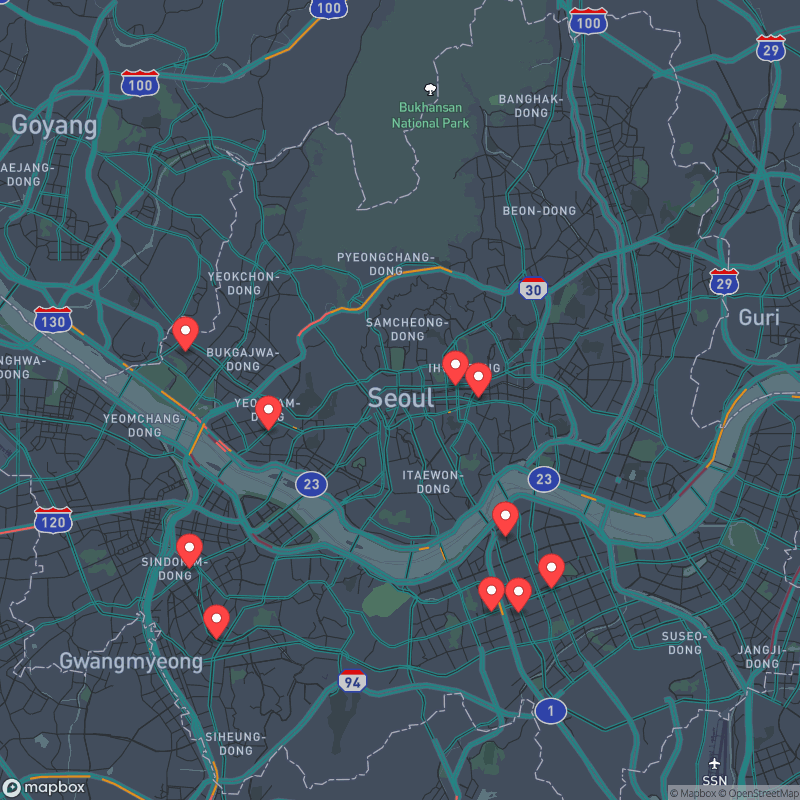
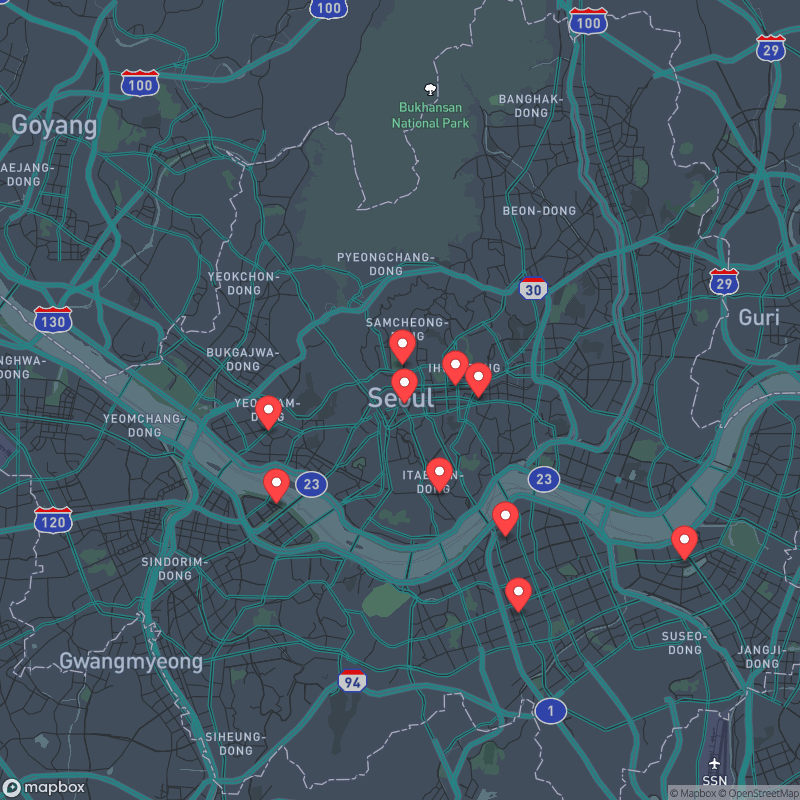
🎨 Auto-update Seoul Map: 2026-11-09 19:53:56

diff --git a/README.md b/README.md
@@ -19,4 +19,4 @@
 ![Seoul Chill Map](./seoul_chill.png)
 
 ---
-마지막 업데이트: 2026-11-09 18:12:16 (KST)
+마지막 업데이트: 2026-11-10 04:53:55 (KST)
